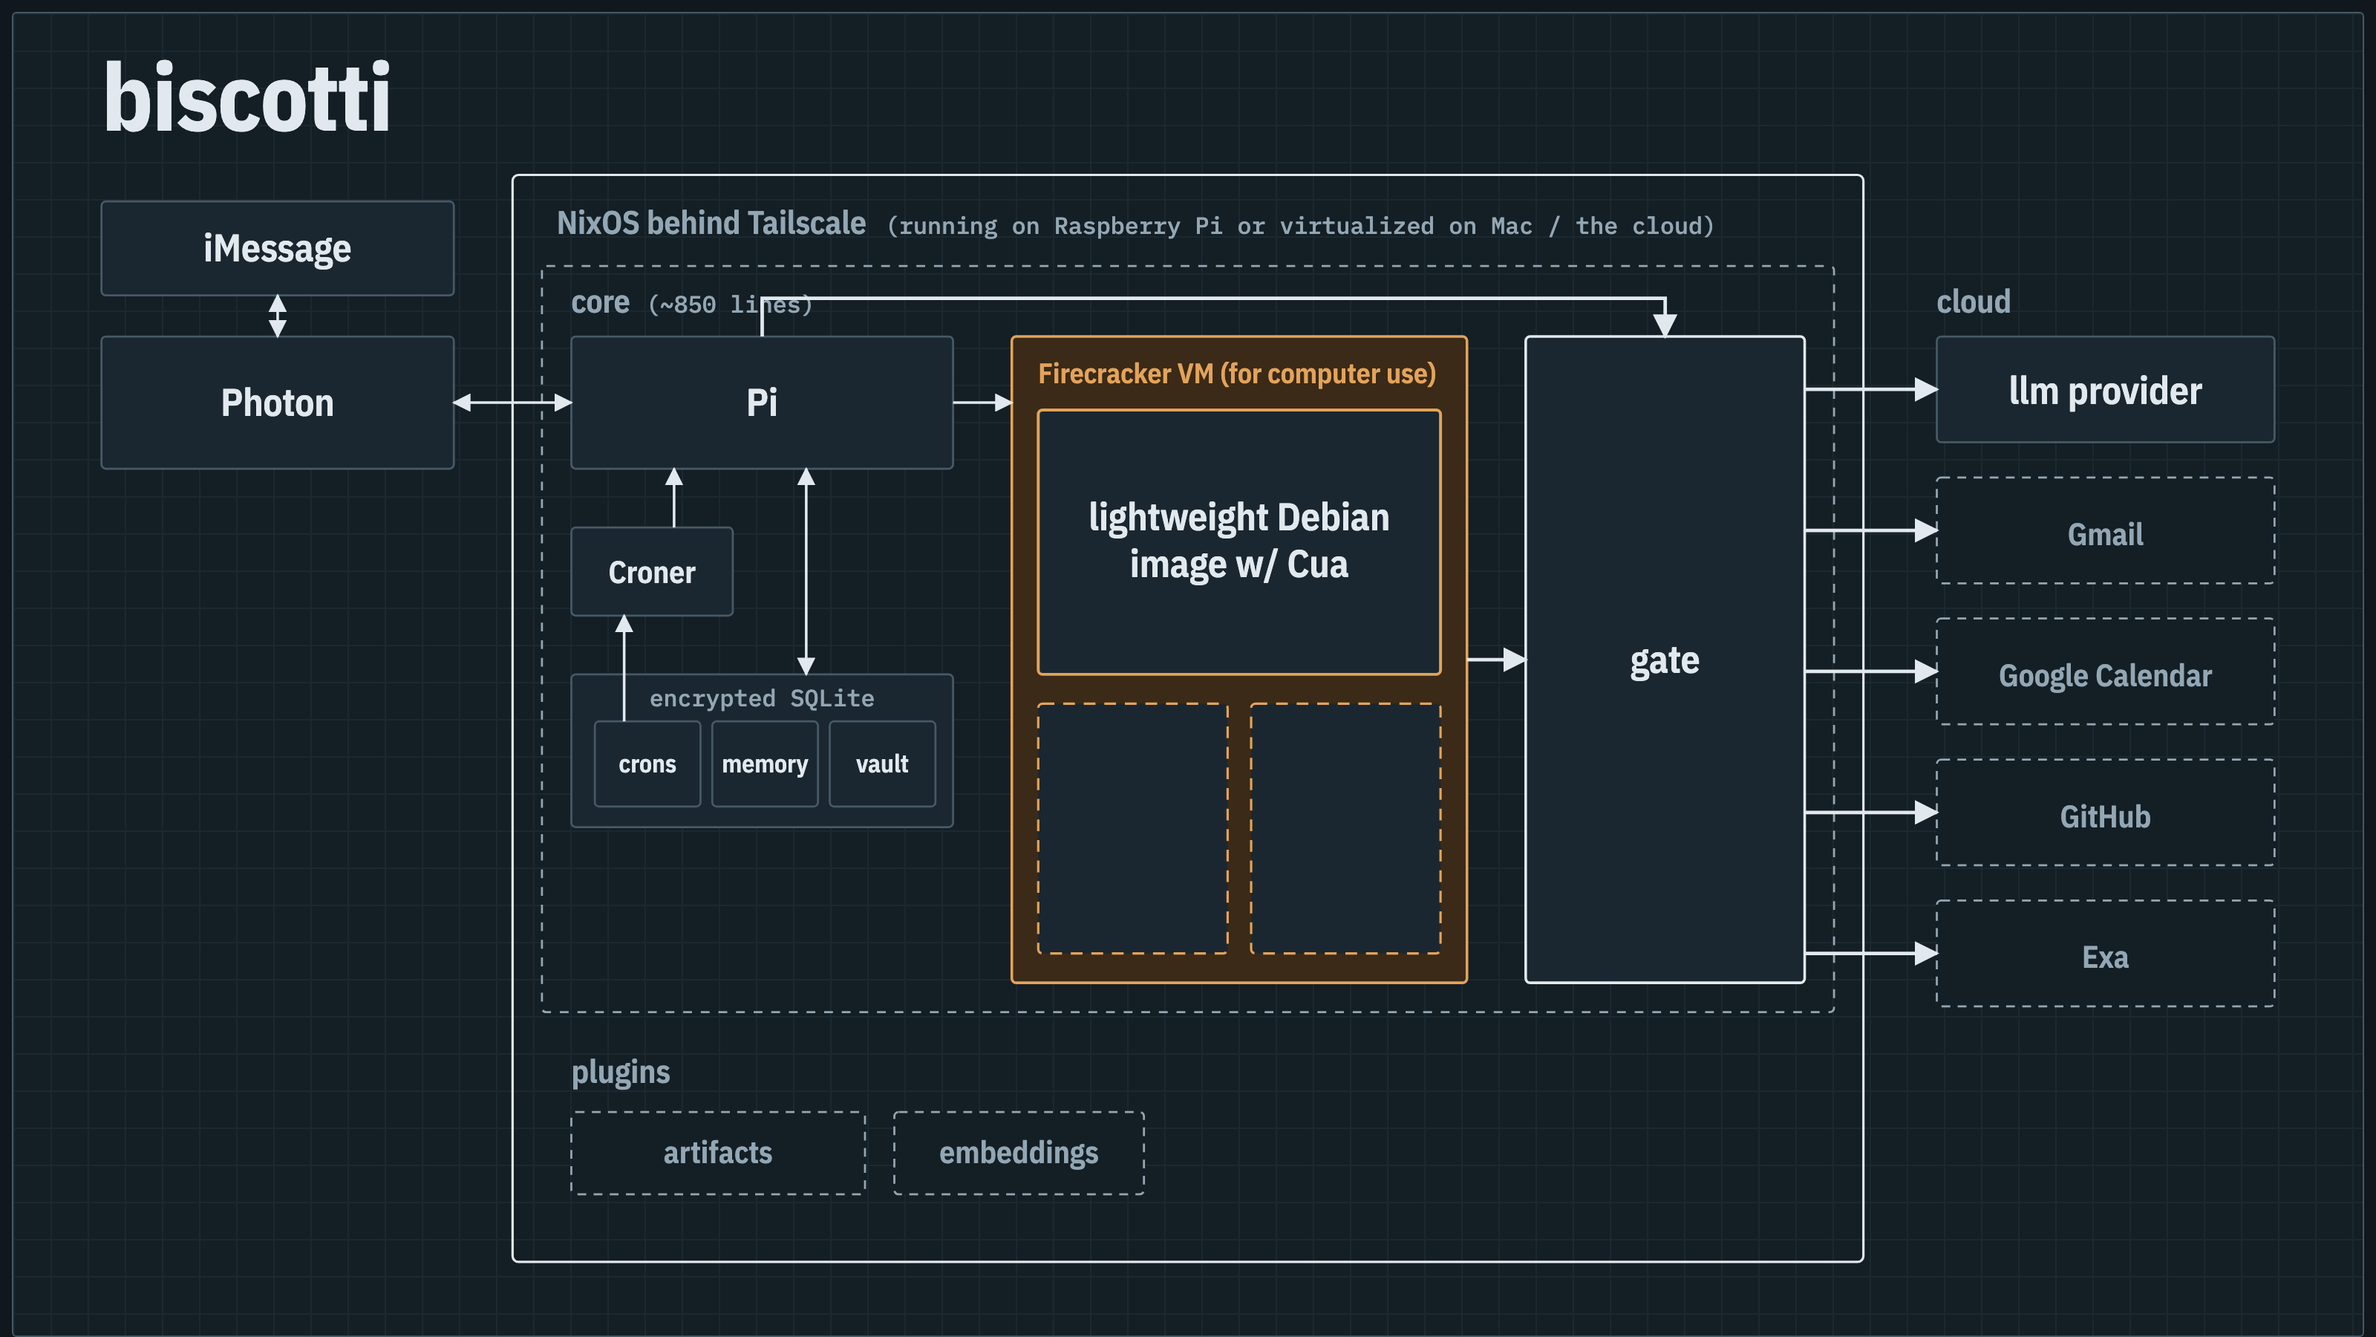
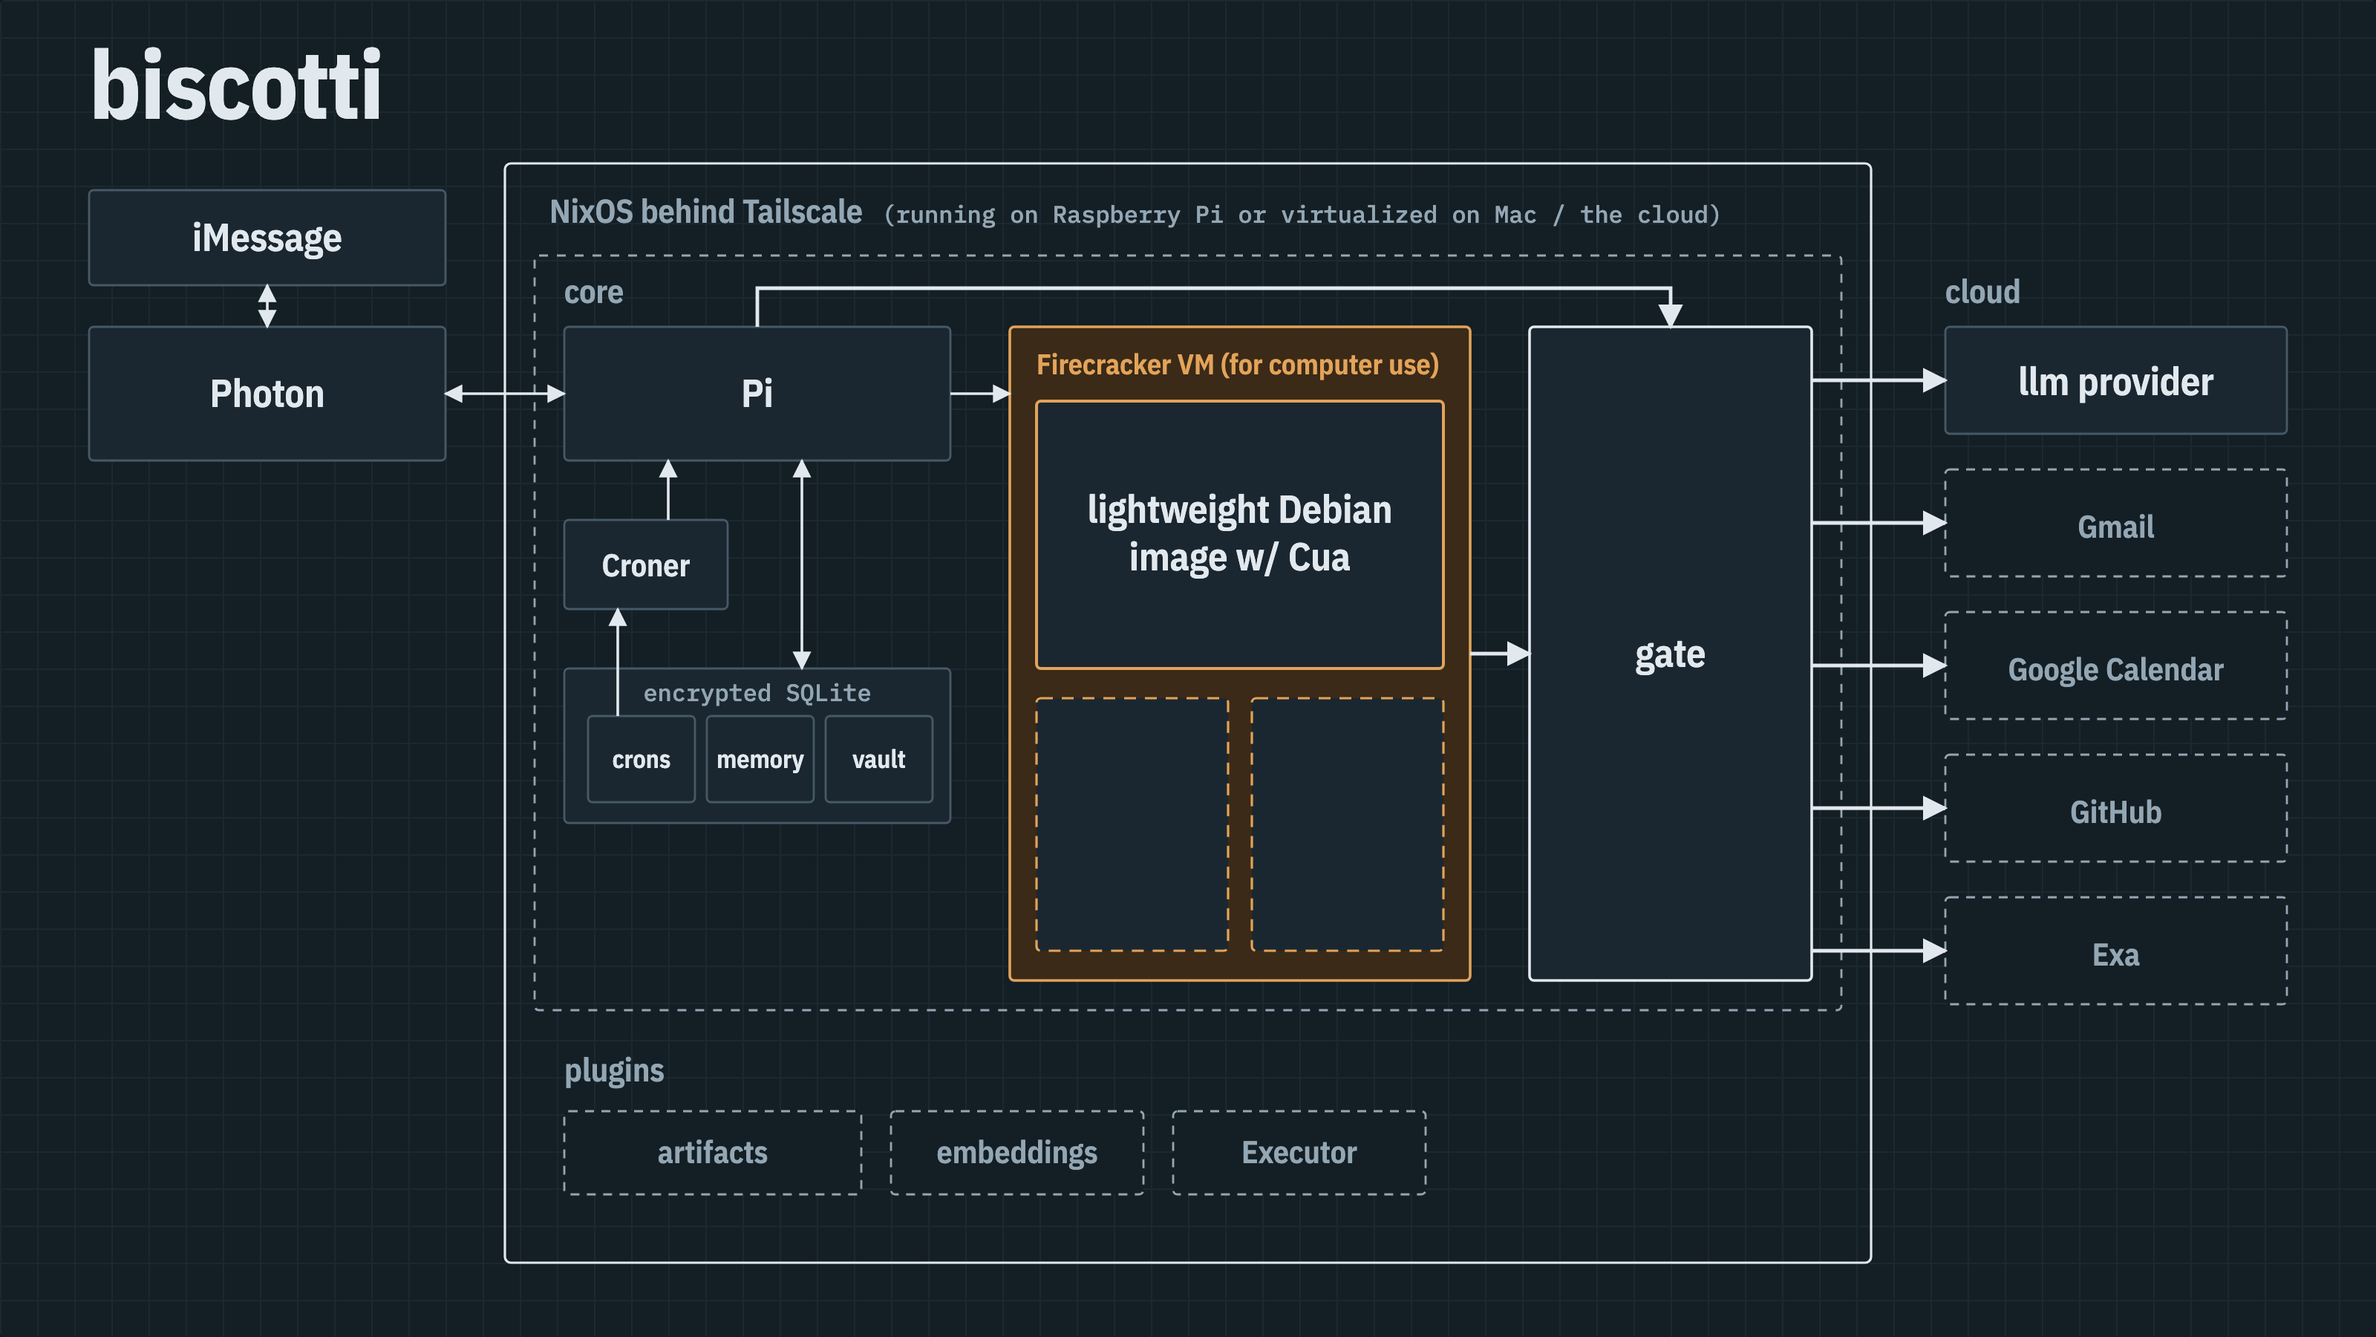
executor plugin, prompt tweaks

diff --git a/plugins/executor/index.ts b/plugins/executor/index.ts
@@ -1,0 +1,82 @@
+import { existsSync, readFileSync, writeFileSync } from "node:fs";
+import { mcpTools, type CallToolResult, type Context, type Plugin } from "@biscotti/core";
+
+// Executor's apps over MCP. Paused calls are resumed with the owner's answer; `resume` itself is never offered.
+
+const BASE = process.env.EXECUTOR_URL ?? "http://127.0.0.1:4788";
+const APPS = ["google", "github"];
+
+// Executor reports a paused call as JSON text: {"status":"approval-required","requestId":…,"elicitation":{…}}.
+function paused(result: CallToolResult) {
+  const text = result.content?.find((c) => c.type === "text")?.text;
+  try {
+    const body = JSON.parse(text ?? "");
+    if (body.status === "approval-required") return { requestId: body.requestId as string, message: (body.elicitation?.message ?? "") as string };
+  } catch {}
+  return undefined;
+}
+
+async function json(res: Promise<Response>) {
+  const r = await res;
+  if (!r.ok) throw new Error(`executor ${new URL(r.url).pathname}: ${r.status} ${await r.text()}`);
+  return r.json();
+}
+
+// First run: the owner's admin account, the agent's token and the catalog apps. Auth requests need Executor's origin.
+async function token(ctx: Context): Promise<string> {
+  const file = `${ctx.dir}/executor-token`;
+  if (process.env.EXECUTOR_API_KEY) return process.env.EXECUTOR_API_KEY;
+  if (existsSync(file)) return readFileSync(file, "utf8");
+  const { setup } = await json(fetch(`${BASE}/api/auth/self-host/config`));
+  if (!setup) throw new Error("Executor is already set up: create an API key in its UI and set EXECUTOR_API_KEY");
+
+  const headers = { "Content-Type": "application/json", Origin: process.env.EXECUTOR_ORIGIN ?? `https://${ctx.env("TAILNET_HOST")}:8443` };
+  const signup = await fetch(`${BASE}/api/auth/self-host/setup`, {
+    method: "POST",
+    headers,
+    body: JSON.stringify({ name: "biscotti owner", email: ctx.env("OWNER_EMAIL"), password: ctx.env("EXECUTOR_ADMIN_PASSWORD"), organizationName: "biscotti" }),
+  });
+  if (!signup.ok) throw new Error(`executor setup: ${signup.status} ${await signup.text()}`);
+  const cookie = signup.headers
+    .getSetCookie()
+    .map((c) => c.split(";")[0])
+    .join("; ");
+  const [{ id: organization }] = await json(fetch(`${BASE}/api/auth/organization/list`, { headers: { cookie } }));
+  const { key } = await json(
+    fetch(`${BASE}/api/auth/api-key/create`, {
+      method: "POST",
+      headers: { ...headers, cookie },
+      body: JSON.stringify({ name: "biscotti agent", metadata: { organization } }),
+    }),
+  );
+  for (const entry of APPS)
+    await json(
+      fetch(`${BASE}/api/organizations/${organization}/apps/install`, {
+        method: "POST",
+        headers: { "Content-Type": "application/json", Authorization: `Bearer ${key}` },
+        body: JSON.stringify({ entry, name: entry }),
+      }),
+    );
+  writeFileSync(file, key, { mode: 0o600 });
+  return key;
+}
+
+export default {
+  prompt: `Connected apps (Gmail, Calendar, Drive, GitHub) come through Executor's tools (\`search\`, \`describe\`, \`call\`, \`execute\`):
+- Find a tool with \`search\`, then \`call\` it. Use \`execute\` only when one result feeds the next.
+- Prefer an app's high-level tools (e.g. \`tools.google.gmail.send\`) over its raw \`tools.<app>.api.*\` ones, which
+  mirror the service's HTTP API and are easy to get wrong.
+- To connect an account, send the user the connection link.`,
+  async tools(ctx) {
+    const tools = mcpTools(`${BASE}/mcp`, { Authorization: `Bearer ${await token(ctx)}` }, async (client, name, args) => {
+      let result = (await client.callTool({ name, arguments: args })) as CallToolResult;
+      for (let p = paused(result); p; p = paused(result)) {
+        const yes = await ctx.ask(`Okay to do this?\n${p.message.slice(0, 1200)}\n\nReply yes or no.`);
+        const response = yes ? { action: "accept", content: {} } : { action: "decline" };
+        result = (await client.callTool({ name: "resume", arguments: { requestId: p.requestId, response } })) as CallToolResult;
+      }
+      return result;
+    });
+    return { ...tools, list: async () => (await tools.list()).filter((t) => t.name !== "resume") };
+  },
+} satisfies Plugin;

diff --git a/docs/architecture.html b/docs/architecture.html
@@ -74,7 +74,7 @@
   a:focus-visible rect { stroke-width: 3; }
 </style>
 
-<div class="sheet" role="img" aria-label="biscotti (dashed boxes are plugins): iMessage arrives through Photon at a Raspberry Pi running NixOS on your tailnet. The core holds pi, the gate (keys and permissions), an encrypted SQLite store for memory, crons and the vault, and Firecracker task VMs (Debian with Cua). Plugins add croner, HTML artifacts and embeddings. The LLM, Gmail, Google Calendar, GitHub and Exa web search are reached only through the gate.">
+<div class="sheet" role="img" aria-label="biscotti (dashed boxes are plugins): iMessage arrives through Photon at a Raspberry Pi running NixOS on your tailnet. The core holds pi, the gate (keys and permissions), an encrypted SQLite store for memory, crons and the vault, and Firecracker task VMs (Debian with Cua). Plugins add HTML artifacts, embeddings and Executor. The LLM, Gmail, Google Calendar, GitHub and Exa web search are reached only through the gate.">
   <svg viewBox="0 0 1600 900" xmlns="http://www.w3.org/2000/svg">
     <defs>
       <marker id="a" viewBox="0 0 10 10" refX="9" refY="5" markerWidth="7" markerHeight="7" orient="auto-start-reverse"><path class="arrow" d="M0 0L10 5L0 10z"/></marker>
@@ -94,7 +94,7 @@
     <text class="label" x="370" y="150">NixOS behind Tailscale <tspan class="s" dx="8">(running on Raspberry Pi or virtualized on Mac / the cloud)</tspan></text>
 
     <rect class="region" x="360" y="172" width="880" height="508" rx="3"/>
-    <text class="label" x="380" y="204">core <tspan class="s" dx="6">(~850 lines)</tspan></text>
+    <text class="label" x="380" y="204">core</text>
 
     <rect class="box" x="380" y="220" width="260" height="90" rx="3"/>
     <text class="t" x="510" y="274" text-anchor="middle">Pi</text>
@@ -123,6 +123,7 @@
     <text class="label" x="380" y="728">plugins</text>
     <rect class="plugin" x="380" y="748" width="200" height="56" rx="3"/><text class="p" x="480" y="783" text-anchor="middle">artifacts</text>
     <rect class="plugin" x="600" y="748" width="170" height="56" rx="3"/><text class="p" x="685" y="783" text-anchor="middle">embeddings</text>
+    <rect class="plugin" x="790" y="748" width="170" height="56" rx="3"/><text class="p" x="875" y="783" text-anchor="middle">Executor</text>
 
     <!-- Cloud -->
     <text class="label" x="1310" y="204">cloud</text>

diff --git a/tests/executor.test.ts b/tests/executor.test.ts
@@ -1,0 +1,45 @@
+import { readFileSync } from "node:fs";
+import { Client } from "@modelcontextprotocol/sdk/client/index.js";
+import { StreamableHTTPClientTransport } from "@modelcontextprotocol/sdk/client/streamableHttp.js";
+import { expect, test } from "vitest";
+import { boot, newDataDir } from "./support.ts";
+
+// The fresh Executor from tests/compose.yaml. Its first-run setup works once, so the tests share one data directory
+// (and the token minted into it).
+process.env.OWNER_EMAIL = `owner-${Date.now()}@example.com`;
+process.env.EXECUTOR_ADMIN_PASSWORD = crypto.randomUUID();
+const dir = newDataDir();
+const booted = boot(["executor"], dir);
+
+async function mcp(url: string) {
+  const client = new Client({ name: "test", version: "0" });
+  await client.connect(new StreamableHTTPClientTransport(new URL(url)));
+  return client;
+}
+
+test("sets up a fresh Executor: the owner's admin account, the agent's token and the catalog apps", async () => {
+  await booted;
+
+  const token = readFileSync(`${dir}/executor-token`, "utf8");
+  const again = await boot(["executor"], dir);
+  const gate = await mcp(`${again.gateUrl}/mcp`);
+  // An installed app's tools show up in search (GitHub's only once an account is connected).
+  const found = await gate.callTool({ name: "search", arguments: { query: "gmail send" } });
+  await gate.close();
+
+  expect(token).toMatch(/^exp_/);
+  expect(JSON.stringify(found)).toContain("tools.google.");
+});
+
+test("offers Executor's tools through the gate without the token or a way to approve", async () => {
+  const { gateUrl } = await booted;
+
+  const gate = await mcp(`${gateUrl}/mcp`);
+  const names = (await gate.listTools()).tools.map((t) => t.name);
+  const resume = gate.callTool({ name: "resume", arguments: { requestId: "apr_x", response: { action: "accept" } } });
+  await expect(resume).rejects.toThrow("no tool resume");
+  await gate.close();
+
+  expect(names).toContain("search");
+  expect(names).not.toContain("resume");
+});

diff --git a/core/src/tasks.ts b/core/src/tasks.ts
@@ -131,7 +131,7 @@ function runPi(host: string, goal: string) {
   });
 }
 
-export function taskTool(vms: ReturnType<typeof taskVms>, onReport: (goal: string, result: TaskResult) => void, onStart?: (slot: number) => void) {
+export function taskTool(vms: ReturnType<typeof taskVms>, onReport: (goal: string, result: TaskResult) => void, watch?: (slot: number) => string) {
   return defineTool({
     name: "task",
     label: "Task",
@@ -139,11 +139,16 @@ export function taskTool(vms: ReturnType<typeof taskVms>, onReport: (goal: strin
       "Start a task in a fresh, disposable Linux VM with a desktop, browser, shell and internet, for anything that needs a website, a program or files. Returns right away; the report arrives later as a message starting 'Task report'. The task agent sees only the goal, so make it complete.",
     parameters: Type.Object({ goal: Type.String() }),
     async execute(_id, { goal }) {
-      vms.run(goal, onStart).then(
-        (result) => onReport(goal, result),
-        (err) => onReport(goal, { report: `The task failed: ${err.message}` }),
+      const started = new Promise<number>((resolve) =>
+        vms.run(goal, resolve).then(
+          (result) => onReport(goal, result),
+          (err) => onReport(goal, { report: `The task failed: ${err.message}` }),
+        ),
       );
-      return { content: [{ type: "text" as const, text: "Task started." }], details: {} };
+      // A queued task (every slot busy) doesn't hold up the reply.
+      const slot = watch && (await Promise.race([started, new Promise<undefined>((r) => setTimeout(r, 3000))]));
+      const text = slot ? `Task started. Its live desktop, only for a user who asks to watch or take over: ${watch(slot)}` : "Task started.";
+      return { content: [{ type: "text" as const, text }], details: {} };
     },
   });
 }

diff --git a/core/src/biscotti.ts b/core/src/biscotti.ts
@@ -59,7 +59,7 @@ export async function start(opts: { plugins: Plugin[]; dir: string; gatePort?: n
         taskTool(
           taskVms(vmDir, env("FIRECRACKER")),
           (goal, { report, screenshot }) => deliver(`Task report (${goal}):\n${report}`, screenshot),
-          (slot) => liveDesktop && void channel.send({ text: `Working on it. Watch or take over: ${liveDesktop}:${10440 + slot}/vnc.html` }),
+          liveDesktop ? (slot) => `${liveDesktop}:${10440 + slot}/vnc.html` : undefined,
         ),
       ]
     : [];

diff --git a/tests/vitest.config.ts b/tests/vitest.config.ts
@@ -10,6 +10,8 @@ export default defineConfig({
       MODEL: process.env.MODEL ?? "deepseek/deepseek-v4.1-flash-1017-fast",
       TASK_MODEL: process.env.TASK_MODEL ?? "deepseek/deepseek-v4.1-flash-1017-fast",
       EMBEDDINGS_URL: "http://127.0.0.1:8092",
+      EXECUTOR_URL: "http://127.0.0.1:8095",
+      EXECUTOR_ORIGIN: "http://127.0.0.1:8095",
       TAILNET_HOST: "biscotti.example.ts.net",
       // Clear of a live biscotti on the same machine.
       PAGES_PORT: "8182",

diff --git a/DESIGN.md b/DESIGN.md
@@ -6,7 +6,7 @@ own. Diagram: [docs/architecture.html](docs/architecture.html) (PNGs next to it)
 ## Principles
 
 1. **A small core, features as plugins.** The core is what everything needs: the agent, an encrypted store (memory,
-   crons, vault), the gate and task VMs (~850 lines). Everything else is a plugin that `biscotti.json` turns on.
+   crons, vault), the gate and task VMs. Everything else is a plugin that `biscotti.json` turns on.
 2. **Off-the-shelf first.** pi for agents, Photon for iMessage, Firecracker for VMs, Tailscale for access, NixOS for the
    host, SQLite for state.
 3. **The gate holds every key.** The main agent and task VMs reach the model and every tool only through it, and it asks
@@ -18,7 +18,7 @@ own. Diagram: [docs/architecture.html](docs/architecture.html) (PNGs next to it)
 
 ```
 core/            agent, memory, crons, vault, gate, task VMs, plugin API (src/); VM image (vm/); compose (host/)
-plugins/         channels/spectrum, exa, google, github, artifacts, embedding
+plugins/         channels/spectrum, exa, google, github, artifacts, embedding, executor
 installers/      toolchain (NixOS modules + Pi image), setup-app (macOS card writer), local (Lima on a Mac)
 tests/           end-to-end tests; compose.yaml for their services
 biscotti.json    which plugins load
@@ -56,6 +56,7 @@ A plugin is `plugins/<name>/index.ts` default-exporting `{ prompt?, channel?, to
 | github | GitHub's remote MCP server with a fine-grained token; anything not marked read-only asks first |
 | artifacts | HTML pages texted as links; public over Funnel under unguessable names so iMessage shows a preview card |
 | embedding | bge-small on llama.cpp, on device; recall by meaning |
+| executor | optional: Executor's catalog of apps over MCP, with its paused calls approved by text (off by default; a 659 MB container) |
 
 ## Host
 
@@ -66,7 +67,7 @@ State lives in `/var/lib/biscotti` (`.env`, `biscotti.json`, `data/`, `vm/`).
 
 ## Connectors
 
-Executor is gone (a 659 MB beta container with its own UI). From a sweep of pi, OpenClaw/mcporter and Hermes, the
+Executor is an optional plugin, off by default (a 659 MB beta container with its own UI). From a sweep of pi, OpenClaw/mcporter and Hermes, the
 lightweight path: small plugins per service, approvals in the plugin through the gate's `ask`. Google is our own REST
 tools (~200 lines); GitHub is its official remote MCP server (~30 lines). More services: a remote MCP server with a
 token, or a few REST tools.

diff --git a/core/SYSTEM.md b/core/SYSTEM.md
@@ -14,6 +14,9 @@ Tasks:
 - `task` runs a goal in a fresh VM with a desktop, browser, shell and internet. Use it when something has to be seen
   or used on a real screen (seat maps, logging in, booking, forms, downloads) or work needs a computer. Write the goal
   so it stands alone, tell the user it's started, and keep chatting meanwhile. Independent tasks can run at once.
+- Send a task's live desktop link only when the user asks to watch or take over.
+- For tickets with seats (flights, films, theater, concerts), the user wants a general view of the seat map: which
+  areas are open, roughly how full, and the best seats left, before choosing or booking anything.
 - A message starting "Task report" is a finished task's report. Summarize it for the user.
 
 Speed matters: the user is waiting on a text. Make independent tool calls in parallel in one turn, never one by one.
